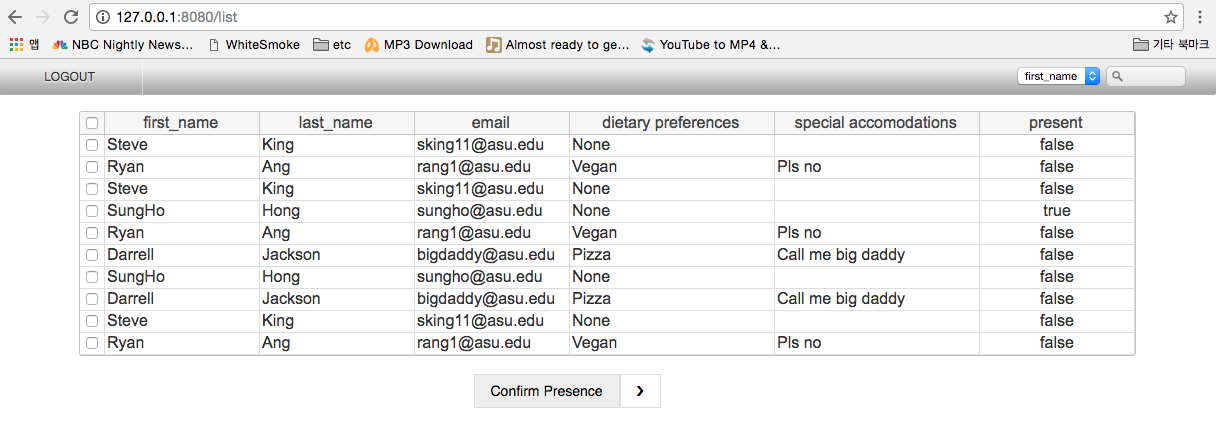
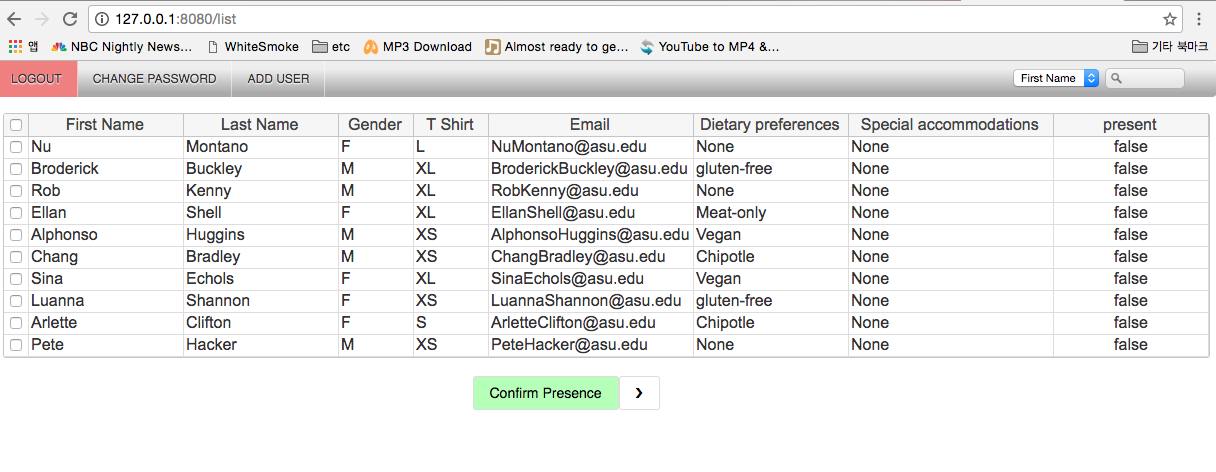
add new comments

diff --git a/README.md b/README.md
@@ -14,30 +14,48 @@
 
 > ### Adding test data
 ![alt tag](README/0.png)
-must add the test data by using the link localhost:8080/test
-
+- must add the test data by using the link localhost:8080/test
+- the existing test data in your localhost will be removed and added with the new data.
+- the source of the test data can be found in [a relative link](modals/Attendant.py)
+- the source of the reference data used in the test data can be found in [a relative link](modals/testFiles)
+---
 
 > ### Login
 ![alt tag](README/1.png)
-the login information can be found in models/User.py
+- the login information can be found in [a relative link](modals/User.py)
+---
 
 
 > ### Paging
 ![alt tag](README/2.png)
-paging is possible by clicking the arrow button at the bottom
+- paging is possible by clicking the arrow button at the bottom
+- the each arrow button will disappear at the first and the last of the row.
+---
 
+> ### Changing the Password
+![alt tag](README/3.png)
+- clicking on the change password button on the top left will redirect to password change page
+---
 
 > ### Search
 ![alt tag](README/4.png)
-Search the data by using the top right search text
+- Search the data by typing in the input on the top right and press enter
+- While searching the paging is not possible for the current state.
+- Searching with empty words will disable the search mode and reactivate the paging.
+---
 
 
 > ### Update presence
 ![alt tag](README/5.png)
-Update the attendees by clicking them and press the confirm Presence button
-The 'Present' Column will change based on it's content.
-ex) True -> False,  False -> True
+- Update the attendees by clicking them and press the confirm Presence button
+- The 'Present' Column will change based on it's content.
+- ex) True -> False,  False -> True
+---
 
+> ### Adding users
+![alt tag](README/6.png)
+- If the user's type property is Administer, he or she will be able to add more users by clicking on the Add user button on the top left.
+- the user type can be found in the [a relative link](modals/User.py)
 
 <br>
 <br>
@@ -49,9 +67,4 @@ ex) True -> False,  False -> True
 | Ryan | Data Integration and LoginHandler |
 | SungHo | CheckinListHandler |
 | Dj |  CheckinUpdateHandler |
-
-
-
-
-
 
